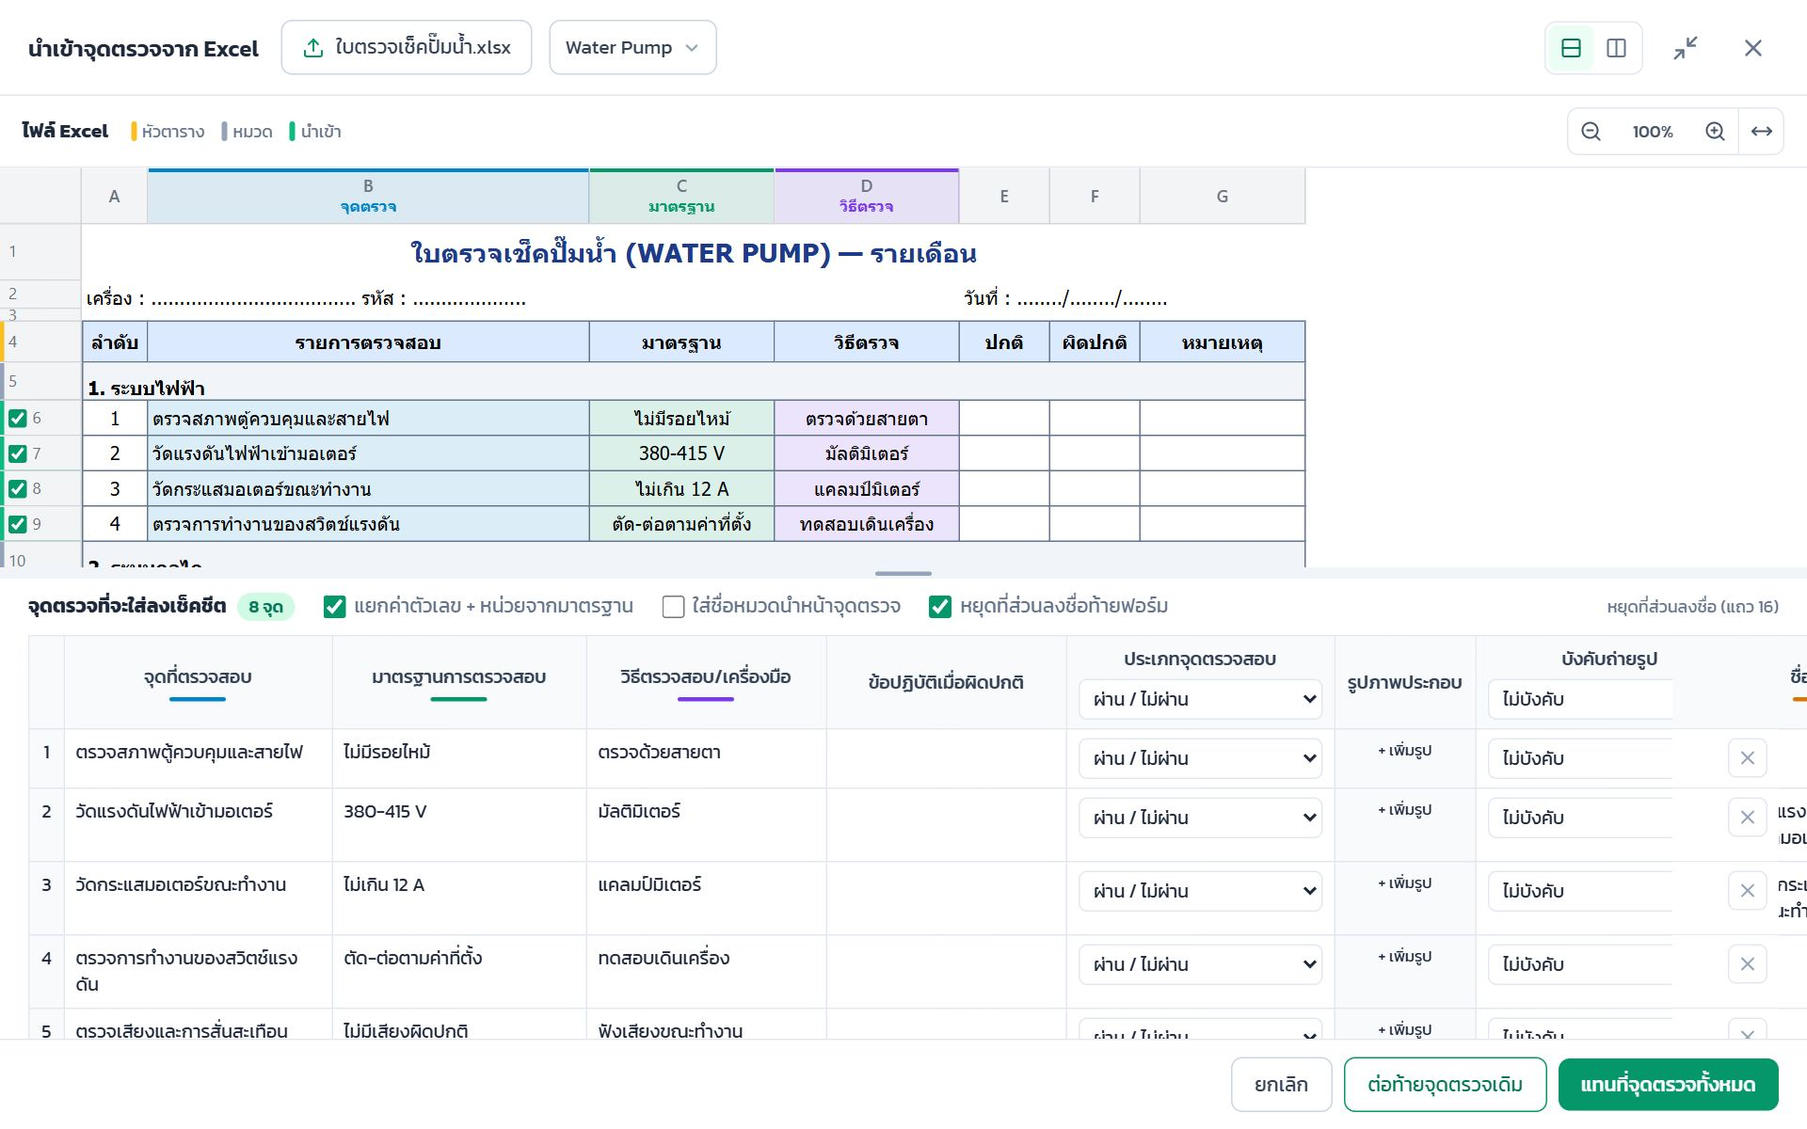
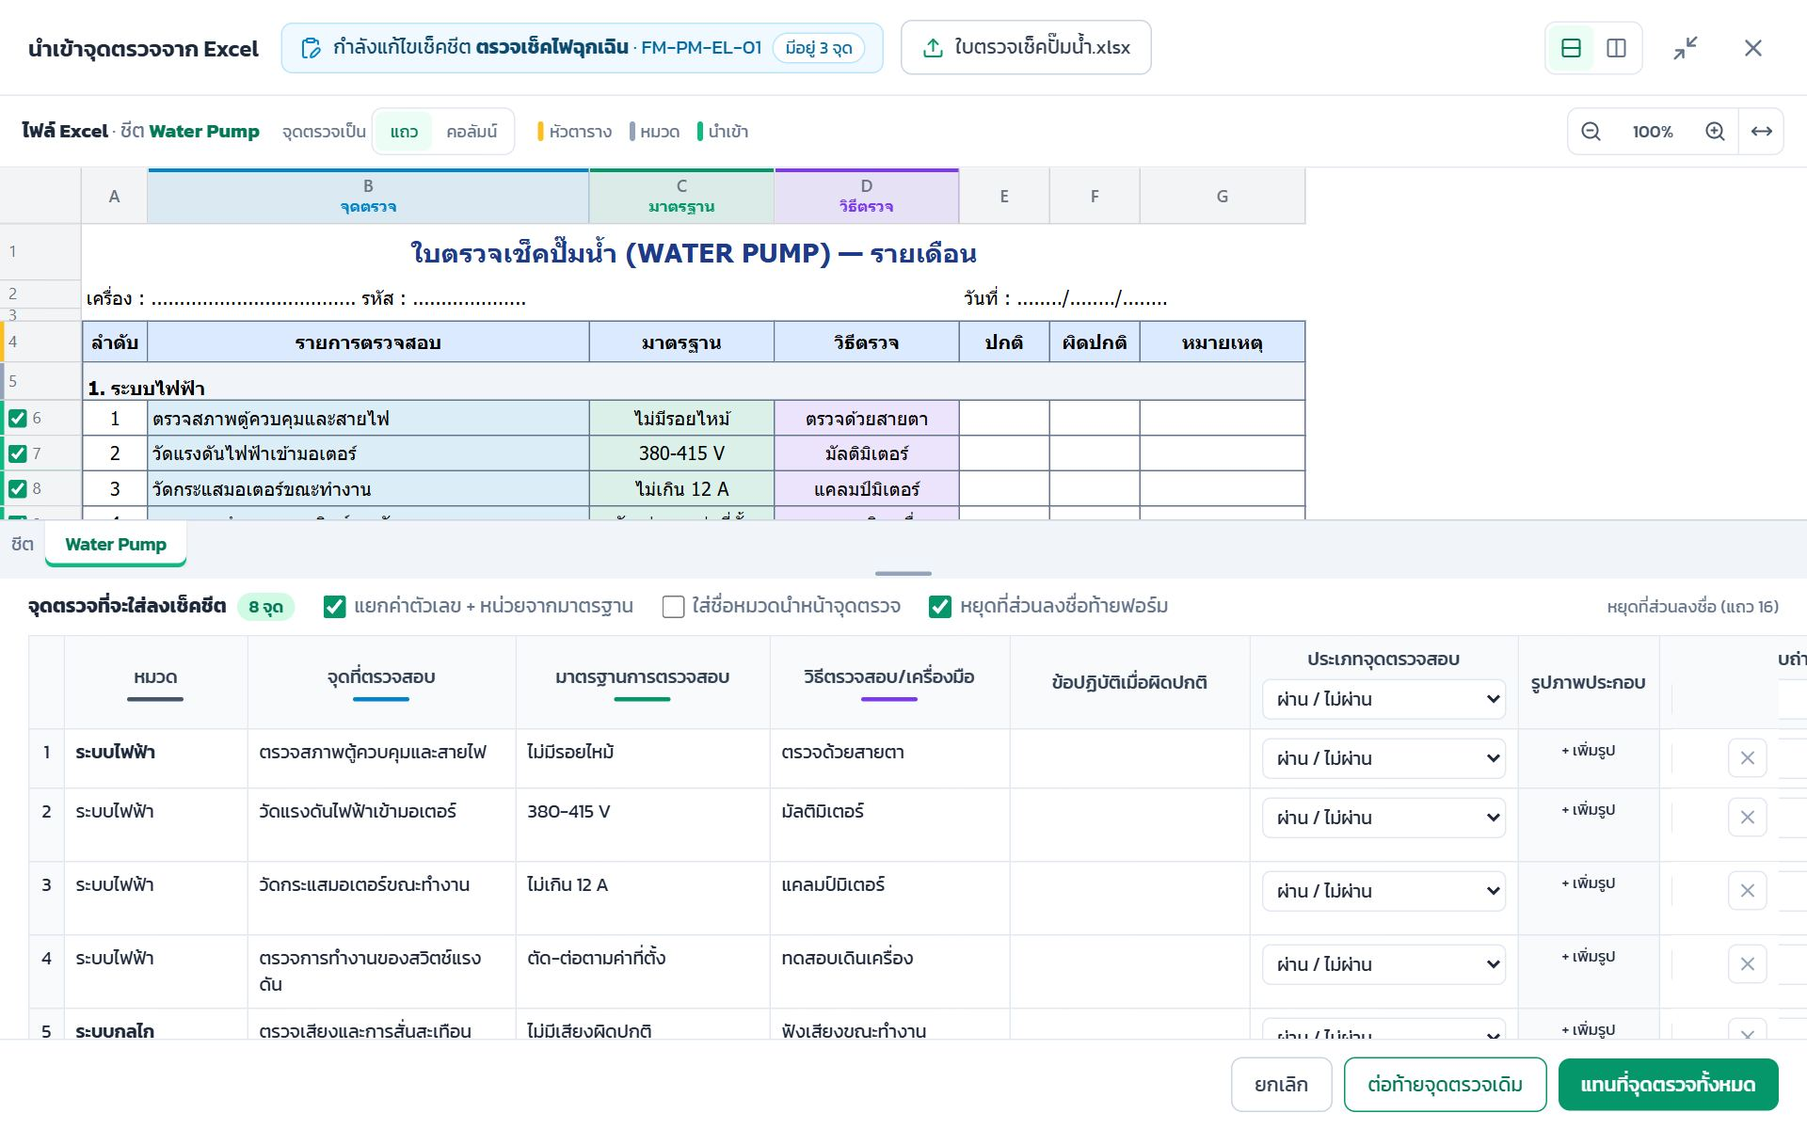
นำเข้าจุดตรวจ: แสดงเช็คชีตที่กำลังแก้ + แท็บชีตแบบ Excel
- แถบบอกชื่อเช็คชีต / เลขที่เอกสาร / จำนวนจุดตรวจที่มีอยู่ ในหน้าต่างนำเข้า (กันลืมว่ากำลังแก้เช็คชีตไหน)
- แท็บชีตใต้ตารางไฟล์ เปิดชีตที่เปิดอยู่ตอนบันทึกไฟล์ก่อน ไม่แสดงชีตซ่อน
- อัปเดตคู่มือ + ภาพ

diff --git a/js/pm_cs_import.js b/js/pm_cs_import.js
@@ -31,6 +31,7 @@
     const low = s => norm(s).toLowerCase();
 
     let wb = null, sheetName = '', rows = [], headRow = 0, map = [], fileName = '';
+    let sheetList = [], lastSheet = '';   // ชีตที่แสดงเป็นแท็บ (ไม่รวมชีตซ่อน) · lastSheet = ชีตที่เปิดอยู่ตอนบันทึกไฟล์ครั้งล่าสุด
 
     // ---------- อ่านชีต (เติมค่าเซลล์รวม) ----------
     // อ่านตั้งแต่ A1 เสมอ: ชีตที่ข้อมูลเริ่มแถว/คอลัมน์อื่น ลำดับแถว/คอลัมน์ต้องตรงกับเซลล์รวม (!merges) และรูปแบบจาก ExcelJS ที่นับจาก A1
@@ -398,15 +399,25 @@
     const tint = (hex, a) => { const n = parseInt(hex.slice(1), 16); return `rgba(${n >> 16},${(n >> 8) & 255},${n & 255},${a})`; };
     let result = { items: [], kind: {} };
 
+    // เช็คชีตที่กำลังแก้ (openOpt.target จากหน้าที่เปิด) — ผู้ใช้เปิดไฟล์ Excel ไปแก้แล้วลืมว่าจะนำเข้าลงเช็คชีตไหน
+    const targetName = () => { const t = openOpt.target; return t ? t.name || 'ยังไม่ได้ตั้งชื่อ' : ''; };
+    function targetHtml() {
+        const t = openOpt.target;
+        if (!t) return '';
+        return `<div id="csi-target" class="inline-flex items-center gap-2 min-w-0 max-w-full px-3 py-1.5 rounded-lg border border-sky-200 bg-sky-50 text-sky-900" title="จุดตรวจที่นำเข้าจะใส่ลงเช็คชีตนี้">
+            <i data-lucide="clipboard-pen" class="w-4 h-4 shrink-0 text-sky-600"></i>
+            <span class="truncate">${esc(t.mode || 'กำลังแก้ไข')} <b>${esc(targetName())}</b>${t.doc ? ' <span class="text-sky-700">· ' + esc(t.doc) + '</span>' : ''}</span>
+            ${t.count != null ? `<span class="shrink-0 px-2 py-0.5 rounded-full bg-white border border-sky-200 text-xs text-sky-700">${t.count ? `มีอยู่ ${t.count} จุด` : 'ยังไม่มีจุดตรวจ'}</span>` : ''}</div>`;
+    }
     function modalHtml() {
         return `<div id="csi-modal" class="fixed inset-0 flex items-center justify-center p-2 sm:p-4" style="z-index:10050;background:rgba(15,23,42,.5)">
         <div id="csi-box" class="bg-white rounded-2xl shadow-2xl w-full max-w-[1500px] h-[94vh] flex flex-col overflow-hidden text-[14px] text-slate-700">
             <div class="flex flex-wrap items-center gap-3 px-5 py-3.5 border-b border-slate-200">
                 <div class="font-semibold text-slate-800 text-base mr-1">นำเข้าจุดตรวจจาก Excel</div>
+                ${targetHtml()}
                 <label class="inline-flex items-center gap-2 px-3.5 py-2 rounded-lg border border-slate-300 hover:bg-slate-50 cursor-pointer">
                     <i data-lucide="upload" class="w-4 h-4 text-emerald-600"></i><span id="csi-fname">เลือกไฟล์</span>
                     <input type="file" id="csi-file" accept=".xlsx,.xls,.xlsm,.csv" class="hidden"></label>
-                <select id="csi-sheet" class="hidden border border-slate-300 rounded-lg py-2 px-2.5" title="ชีต"></select>
                 <div class="flex-1"></div>
                 <div class="inline-flex items-center rounded-lg border border-slate-200 p-0.5 text-slate-500" title="มุมมอง">
                     <button type="button" data-layout="tb" title="บน-ล่าง" class="w-8 h-8 rounded-md flex items-center justify-center hover:bg-slate-100"><i data-lucide="rows-2" class="w-4 h-4"></i></button>
@@ -428,7 +439,7 @@
             <div id="csi-main" class="hidden flex-1 min-h-0 min-w-0 flex">
                 <div id="csi-pa" class="min-h-0 min-w-0 flex flex-col">
                     <div class="px-4 py-2 text-sm text-slate-500 flex flex-wrap items-center gap-x-4 gap-y-1">
-                        <b class="text-slate-800">ไฟล์ Excel</b>
+                        <b class="text-slate-800">ไฟล์ Excel <span class="font-normal text-slate-500">· ชีต</span> <span id="csi-sname" class="text-emerald-700"></span></b>
                         <div class="inline-flex items-center gap-1 text-xs" title="ใบตรวจที่แต่ละแถวคือเครื่อง (เช่น ถังดับเพลิง) และจุดตรวจอยู่ที่หัวคอลัมน์ ให้เลือก คอลัมน์">
                             <span>จุดตรวจเป็น</span>
                             <span class="inline-flex rounded-lg border border-slate-200 p-0.5">
@@ -446,6 +457,7 @@
                         </div>
                     </div>
                     <div id="csi-left" class="flex-1 min-h-0 overflow-auto bg-white border-t border-slate-200"></div>
+                    <div id="csi-tabs" class="flex items-stretch gap-0.5 overflow-x-auto bg-slate-100 border-t border-slate-300 px-2 text-[13px] shrink-0"></div>
                 </div>
                 <div id="csi-gutter" title="ลากเพื่อปรับขนาด · ดับเบิลคลิก = ครึ่งต่อครึ่ง"></div>
                 <div id="csi-pb" class="flex-1 min-h-0 min-w-0 flex flex-col">
@@ -693,8 +705,17 @@
     }
     const closeMenu = () => { if ($('csi-menu')) $('csi-menu').classList.add('hidden'); showCol(null); };
 
-    function loadSheet() {
-        sheetName = $('csi-sheet').value;
+    // แท็บชีตใต้ตารางไฟล์ (แบบ Excel) — ผู้ใช้มักจำไม่ได้ว่าแก้ชีตไหน: แท็บที่เลือกเป็นสีเขียว + ป้าย "เปิดล่าสุด" ที่ชีตที่เปิดอยู่ตอนบันทึกไฟล์
+    function renderTabs() {
+        $('csi-sname').textContent = sheetName;
+        $('csi-tabs').innerHTML = '<span class="self-center text-slate-500 pr-1.5 shrink-0">ชีต</span>' + sheetList.map((n, i) =>
+            `<button type="button" data-sheet="${i}" class="csi-tab${n === sheetName ? ' csi-cur' : ''}"${n === lastSheet ? ' title="ชีตที่เปิดอยู่ตอนบันทึกไฟล์ครั้งล่าสุด"' : ''}>${esc(n)}${n === lastSheet ? '<span class="csi-last">เปิดล่าสุด</span>' : ''}</button>`).join('');
+        const cur = $('csi-tabs').querySelector('.csi-cur');
+        if (cur) cur.scrollIntoView({ block: 'nearest', inline: 'nearest' });
+    }
+    function loadSheet(name) {
+        sheetName = name;
+        renderTabs();
         removed = new Set(); cutAt = null; rowOpt = {};
         rows = sheetRows(sheetName);
         disp = rawRows(sheetName);   // ค่าที่แสดงในหน้าตาแบบ Excel (เซลล์รวมแสดงครั้งเดียว)
@@ -734,16 +755,23 @@
         if (/\.xls[xm]$/i.test(f.name)) {
             try { const EJ = await loadExcelJs(); xwb = new EJ.Workbook(); await xwb.xlsx.load(buf.slice(0)); readTheme(); } catch (e) { xwb = null; }
         }
-        // เลือกชีตที่มีหัวตารางชัดที่สุดให้ก่อน
-        let best = wb.SheetNames[0], bestS = -1;
-        wb.SheetNames.forEach(n => {
-            const s = Math.max(0, ...sheetRows(n).slice(0, 30).map(scoreHeader));
+        // แท็บ = ชีตที่ไม่ได้ซ่อน (ซ่อนหมด => แสดงทุกชีต)
+        const wbm = wb.Workbook || {}, meta = wbm.Sheets || [];
+        sheetList = wb.SheetNames.filter((n, i) => !(meta[i] && meta[i].Hidden));
+        if (!sheetList.length) sheetList = wb.SheetNames.slice();
+        // ชีตที่เปิดอยู่ตอนบันทึกไฟล์ (activeTab ของ workbookView — ไม่ระบุ = ชีตแรก) · CSV / .xls บางแบบไม่มีข้อมูลนี้
+        const wv = (wbm.WBView || [])[0];
+        lastSheet = wv ? wb.SheetNames[+wv.activeTab || 0] || '' : '';
+        if (!sheetList.includes(lastSheet)) lastSheet = '';
+        // เปิดชีตที่เปิดอยู่ตอนบันทึกก่อน (ชีตที่เพิ่งแก้) ถ้ามีหัวตาราง — ไม่มี/เป็นชีตหมายเหตุ => ชีตที่มีหัวตารางชัดที่สุด
+        let best = sheetList[0], bestS = -1;
+        const score = {};
+        sheetList.forEach(n => {
+            const s = score[n] = Math.max(0, ...sheetRows(n).slice(0, 30).map(scoreHeader));
             if (s > bestS) { bestS = s; best = n; }
         });
-        const sel = $('csi-sheet');
-        sel.innerHTML = wb.SheetNames.map(n => `<option value="${esc(n)}" ${n === best ? 'selected' : ''}>${esc(n)}</option>`).join('');   // value ระบุเอง: ชื่อชีตที่มีช่องว่างท้ายชื่อ (option ตัดช่องว่างเมื่อไม่มี value)
-        sel.classList.toggle('hidden', wb.SheetNames.length < 2);
-        loadSheet();
+        const hasData = n => sheetRows(n).some(r => r.some(v => String(v).trim()));
+        loadSheet(lastSheet && (score[lastSheet] > 0 || (bestS <= 0 && hasData(lastSheet))) ? lastSheet : best);
         fileName = f.name;
         $('csi-fname').textContent = f.name;   // อ่านสำเร็จแล้วจึงเปลี่ยนชื่อไฟล์ (ไฟล์เสีย => ยังเป็นไฟล์เดิมที่แสดงอยู่)
     }
@@ -795,7 +823,7 @@
         const own = openOpt.apply;
         (own || window.csImportApply)(items, mode);
         close();
-        if (!own && window.Swal) Swal.fire({ icon: 'success', title: `นำเข้า ${items.length} จุดตรวจ`, text: 'ตรวจสอบในตาราง แล้วกดบันทึกเช็คชีต', timer: 1800, showConfirmButton: false });
+        if (!own && window.Swal) Swal.fire({ icon: 'success', title: `นำเข้า ${items.length} จุดตรวจ`, text: (targetName() ? 'ลงเช็คชีต ' + targetName() + ' — ' : '') + 'ตรวจสอบในตาราง แล้วกดบันทึกเช็คชีต', timer: 1800, showConfirmButton: false });
     }
 
     // ข้อผิดพลาดแสดงเป็นแถบในหน้าต่างนี้ — ไม่ใช้ SweetAlert: ถูกหน้าต่างนี้บัง และถ้าเปิดซ้อนบน SweetAlert (pm_import) จะปิดหน้าต่างแก้ไขที่อยู่ด้านล่าง
@@ -829,7 +857,10 @@
             + ' #csi-modal .csi-gut { flex: 0 0 8px; background: #f1f5f9; position: relative; touch-action: none; } #csi-modal .csi-gut:hover, #csi-modal .csi-gut.drag { background: #a7f3d0; }'
             + ' #csi-modal .csi-gut::after { content: ""; position: absolute; inset: 0; margin: auto; border-radius: 2px; background: #94a3b8; }'
             + ' #csi-modal .csi-gut-h { cursor: row-resize; } #csi-modal .csi-gut-h::after { width: 40px; height: 3px; } #csi-modal .csi-gut-v { cursor: col-resize; } #csi-modal .csi-gut-v::after { width: 3px; height: 40px; }'
-            + ' #csi-modal .csi-on { background: #ecfdf5; color: #047857; }</style>');
+            + ' #csi-modal .csi-on { background: #ecfdf5; color: #047857; }'
+            + ' #csi-modal .csi-tab { display: inline-flex; align-items: center; gap: 6px; padding: 7px 14px; white-space: nowrap; color: #475569; border-radius: 0 0 6px 6px; } #csi-modal .csi-tab:hover { background: #e2e8f0; }'
+            + ' #csi-modal .csi-tab.csi-cur { background: #fff; color: #047857; font-weight: 600; box-shadow: inset 0 -3px 0 #10b981, 0 1px 2px rgba(15,23,42,.12); }'
+            + ' #csi-modal .csi-last { font-size: 10px; font-weight: 500; line-height: 1; padding: 3px 6px; border-radius: 999px; background: #fef3c7; color: #b45309; }</style>');
         document.body.insertAdjacentHTML('beforeend', modalHtml());
         setFs(true);
         applyLayout();
@@ -865,6 +896,8 @@
                 else setZoom(1);
                 return;
             }
+            const tb = e.target.closest('[data-sheet]');
+            if (tb) { const n = sheetList[+tb.dataset.sheet]; if (n != null && n !== sheetName) loadSheet(n); return; }
             const th = e.target.closest('.csi-colh');
             if (th) { openMenu(+th.dataset.col, th); return; }
             const tg = e.target.closest('[data-toggle]');
@@ -895,7 +928,6 @@
             if (f) readFile(f).catch(err => showErr('อ่านไฟล์ไม่ได้: ' + f.name, err && err.message ? err.message : String(err)));
             e.target.value = '';   // เลือกไฟล์เดิมซ้ำได้ (หลังแก้ไฟล์)
         });
-        $('csi-sheet').addEventListener('change', loadSheet);
         // Ctrl + ล้อเมาส์ = ซูมตารางไฟล์
         $('csi-left').addEventListener('wheel', e => { if (!e.ctrlKey) return; e.preventDefault(); zoomStep(e.deltaY < 0 ? 1 : -1); }, { passive: false });
         // ลากเส้นแบ่งเพื่อปรับขนาดสองฝั่ง (15–85%) · ดับเบิลคลิก = ครึ่งต่อครึ่ง

diff --git a/tutorial.php b/tutorial.php
@@ -883,7 +883,7 @@ const MODULES = [
             { m: 5, t: '<span class="kbd">นำเข้าจาก Excel</span> — ดึงจุดตรวจจากไฟล์ใบตรวจเช็คของหน่วยงาน (.xlsx .xls .csv) ไม่ต้องพิมพ์ใหม่ (ดูหัวข้อถัดไป)' }
         ] },
         { title: 'นำเข้าจุดตรวจจาก Excel', shot: 'pm_cs_import', steps: [
-            { m: 1, t: '<b>เลือกไฟล์</b> ใบตรวจเช็คของหน่วยงาน — ระบบหาแถวหัวตารางและจับคู่คอลัมน์ให้เอง (ไฟล์มีหลายชีตเลือกชีตได้ที่ช่องข้างกัน)' },
+            { m: 1, t: 'แถบสีฟ้าข้างหัวข้อบอกว่า<b>กำลังแก้ไข/สร้างเช็คชีตไหน</b> (ชื่อ · เลขที่เอกสาร · จำนวนจุดตรวจที่มีอยู่) — ตรวจให้ตรงก่อนนำเข้า · <b>เลือกไฟล์</b> ใบตรวจเช็คของหน่วยงาน — ระบบหาแถวหัวตารางและจับคู่คอลัมน์ให้เอง · ไฟล์มีหลายชีต ระบบเปิด<b>ชีตที่เปิดอยู่ตอนบันทึกไฟล์ครั้งล่าสุด</b>ให้ (ป้าย <span class="text-amber-700 font-semibold">เปิดล่าสุด</span>) — ชื่อชีตที่กำลังดูอยู่ข้างคำว่า ไฟล์ Excel และคลิก<b>แท็บชีต</b>ใต้ตารางไฟล์เพื่อเปลี่ยนชีต (แบบใน Excel)' },
             { m: 2, t: '<b>มุมมอง</b> — วางไฟล์กับตารางจุดตรวจแบบ <b>บน-ล่าง</b> หรือ <b>ซ้าย-ขวา</b> ปุ่มถัดไปคือย่อ/ขยายหน้าต่างเต็มจอ' },
             { m: 3, t: '<b>ซูม</b> ตารางไฟล์ − / + (กดตัวเลข % = 100%) และ ↔ พอดีความกว้าง · กด Ctrl ค้างแล้วหมุนล้อเมาส์ก็ซูมได้' },
             { m: 4, t: '<b>หัวคอลัมน์ A B C …</b> — คอลัมน์ที่จับคู่แล้วมีแถบสีและชื่อชนิด (จุดตรวจ มาตรฐาน วิธีตรวจ …) <b>คลิกเพื่อเปลี่ยนชนิด</b> (หัวข้อถัดไป)' },

diff --git a/pm_checksheet.php b/pm_checksheet.php
@@ -130,7 +130,7 @@ include "config_ctrl/checksession.php";
                         <span id="cs-item-count" class="text-xs text-slate-500"></span>
                     </div>
                     <div class="flex items-center gap-2">
-                        <button type="button" onclick="openChecksheetImport()" class="inline-flex items-center gap-1.5 px-3 py-1.5 rounded-lg border border-emerald-600 text-sm text-emerald-700 hover:bg-emerald-50" title="อ่านจุดตรวจจากไฟล์ใบตรวจเช็คของหน่วยงาน">
+                        <button type="button" onclick="openChecksheetImport({ target: csImportTarget() })" class="inline-flex items-center gap-1.5 px-3 py-1.5 rounded-lg border border-emerald-600 text-sm text-emerald-700 hover:bg-emerald-50" title="อ่านจุดตรวจจากไฟล์ใบตรวจเช็คของหน่วยงาน">
                             <i data-lucide="file-spreadsheet" class="w-4 h-4"></i> นำเข้าจาก Excel
                         </button>
                         <input type="number" id="row-add-count" value="1" min="1" aria-label="จำนวนแถวที่จะเพิ่ม" class="w-16 border border-slate-200 rounded-lg py-1.5 px-2 text-sm text-center outline-none focus:ring-2 focus:ring-sky-500/30">
@@ -480,9 +480,14 @@ include "config_ctrl/checksession.php";
         updateItemCount();
     };
 
+    const itemCount = () => window.hotChecksheet ? window.hotChecksheet.getData().filter(r => r[1] && String(r[1]).trim()).length : 0;
+    // หน้าต่างนำเข้าบอกว่ากำลังใส่จุดตรวจลงเช็คชีตไหน (ผู้ใช้ลืมว่าเปิดแก้เช็คชีตไหนอยู่)
+    window.csImportTarget = function () {
+        return { mode: 'กำลัง' + $('cs-editor-title').textContent, name: $('checksheet-name').value.trim(), doc: $('checksheet-doc-no').value.trim(), count: itemCount() };
+    };
     function updateItemCount() {
         if (!window.hotChecksheet) return;
-        const n = window.hotChecksheet.getData().filter(r => r[1] && String(r[1]).trim()).length;
+        const n = itemCount();
         $('cs-item-count').textContent = n ? `${n} จุด` : '';
     }
 

diff --git a/pm_import.php b/pm_import.php
@@ -623,6 +623,8 @@ pmLazy('import', function() {   // โหลดเมื่อเปิดแท
                 if ($('imp-it-xls')) {
                     lucide.createIcons();
                     $('imp-it-xls').addEventListener('click', () => openChecksheetImport({
+                        target: { mode: 'กำลังแก้ไข', name: (Swal.getTitle() || {}).textContent || '',
+                            count: readItemRows(body).filter(it => ITEM_COLS.some(c => !c.opts && c.f !== 'section_name' && it[c.f] !== '')).length },
                         apply: (rows, mode) => {
                             const optId = (list, label, def) => (list.find(o => o.label === label) || { id: def }).id;
                             const add = rows.map(v => ({ ...blankItem(), section_name: v[10] || '', check_point: v[0], standard_text: v[1], method_text: v[2], action_abnormal: v[3],
